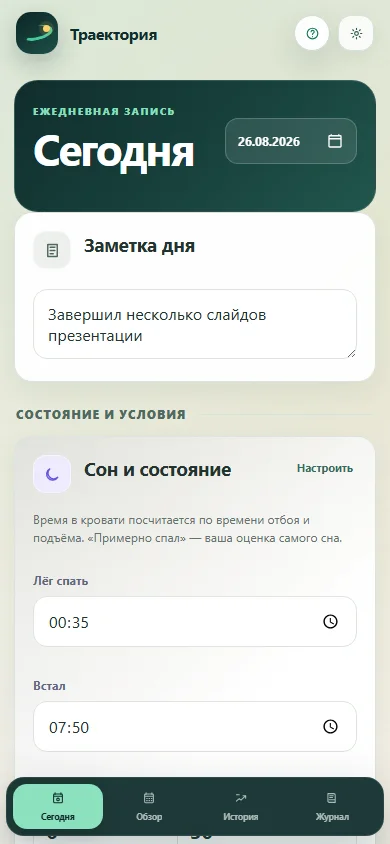
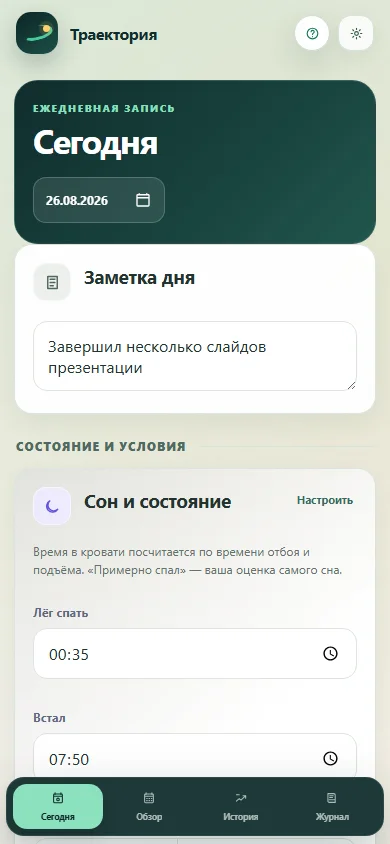
fix: keep daily heading readable on mobile

diff --git a/e2e/responsive-layout.e2e.ts b/e2e/responsive-layout.e2e.ts
@@ -764,6 +764,37 @@ test('removes paginated list motion when reduced motion is requested', async ({ 
   await expect.poll(() => list.evaluate((element) => element.style.height)).toBe('');
 });
 
+for (const width of [320, 361, 390, 480, 719, 720, 721]) {
+  test(`keeps the daily heading text separate from its date control at ${width}px`, async ({ page }) => {
+    await page.setViewportSize({ width, height: 844 });
+    await page.goto('/today');
+    await page.locator('.page--today').waitFor();
+    await page.evaluate(() => document.fonts.ready);
+
+    async function expectHeadingFits() {
+      const heading = await readLayoutBox(page.locator('.page--today > .page-heading'), 'daily heading');
+      const date = await readLayoutBox(page.getByRole('button', { name: 'Выбрать дату записи' }), 'date control');
+      const text = await page.locator('.page--today > .page-heading h1').evaluate((element) => {
+        const range = document.createRange();
+        range.selectNodeContents(element);
+        const box = range.getBoundingClientRect();
+        return { x: box.x, y: box.y, width: box.width, height: box.height };
+      });
+      expectBoxInside(text, heading, 'daily heading text');
+      const separated = text.x + text.width + 4 <= date.x || text.y + text.height + 4 <= date.y;
+      expect(separated, 'the date control must not cover heading text').toBe(true);
+    }
+
+    await expectHeadingFits();
+    await page.getByLabel('Дата записи', { exact: true }).evaluate((input) => {
+      (input as HTMLInputElement).value = '2026-08-30';
+      input.dispatchEvent(new Event('change', { bubbles: true }));
+    });
+    await expect(page.locator('.page--today > .page-heading h1')).toContainText('августа');
+    await expectHeadingFits();
+  });
+}
+
 test('keeps the returning daily form compact and visibly grouped', async ({ page }) => {
   await page.setViewportSize({ width: 1280, height: 720 });
   await page.goto('/today');

diff --git a/src/views/TodayView.css b/src/views/TodayView.css
@@ -653,7 +653,7 @@
   font-weight: 750;
 }
 
-@media (max-width: 360px) {
+@media (max-width: 720px) {
   .page--today > .page-heading {
     flex-direction: column;
     align-items: stretch;
